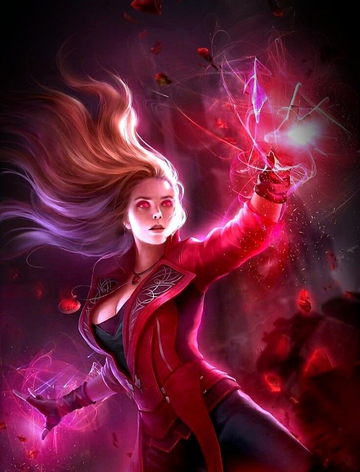
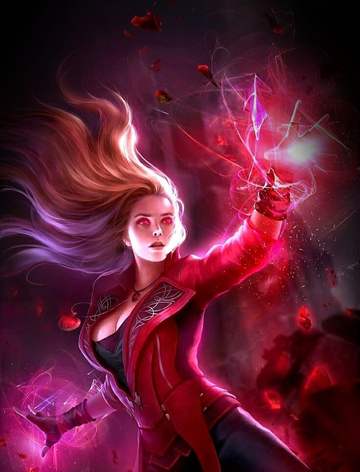
Re-crop Grievous / Jason / Scarlet Witch / Deathstroke with more padding
User: "make sure Grievous, Jason, Scarlet Witch, Deathstroke can
be seen in their images and centered — right now it's being cut
off a little."

Re-ran tools/smart_crop.py with pad_pct=0.12 (vs default 0.05) on
the four flagged portraits. The 5% padding cut close to the
subject's edge, so wide-action poses (Grievous's four spread
lightsabers, Jason mid-swing, Scarlet Witch's outstretched hex
arm, Deathstroke's blade winding back) lost a couple pixels of
hand / blade-tip on the aspect-fit pass. Bigger padding gives
the bbox more breathing room before the 3:4 aspect extension
runs, keeping the full figure in frame.

Files re-written in place:
  • audio/cards/art/General Grievous.png
  • audio/cards/art/Jason Voorhees 2.png  (current default variant)
  • audio/cards/art/Scarlet Witch 2.png   (current default variant)
  • audio/cards/art/Deathstroke 2.png     (current default variant)

Cache bumps: ui.js?v=633, _CARD_ART_VERSION 53 → 54 so browsers
refetch the new PNGs instead of serving the old cached crops.

diff --git a/index.html b/index.html
@@ -719,7 +719,7 @@
   <script src="https://unpkg.com/peerjs@1.5.4/dist/peerjs.min.js"></script>
   <script src="multiplayer.js?v=5"></script>
   <script src="card-art-manifest.js?v=29"></script>
-  <script src="ui.js?v=632"></script>
+  <script src="ui.js?v=633"></script>
   <script src="logger.js?v=5"></script>
   <!-- Always-on crash capture. Hooks window.onerror +
        unhandledrejection, surfaces a "Copy bug report" button when

diff --git a/ui.js b/ui.js
@@ -13,7 +13,7 @@ const UI = {
   // cached PNGs (which don't have built-in cache busters since they're
   // referenced via background-image url() and not the index.html
   // version-suffix system). Bump this every time you regen art.
-  _CARD_ART_VERSION: 53,
+  _CARD_ART_VERSION: 54,
 
   // =====================================================================
   // CARD ART VARIANTS
